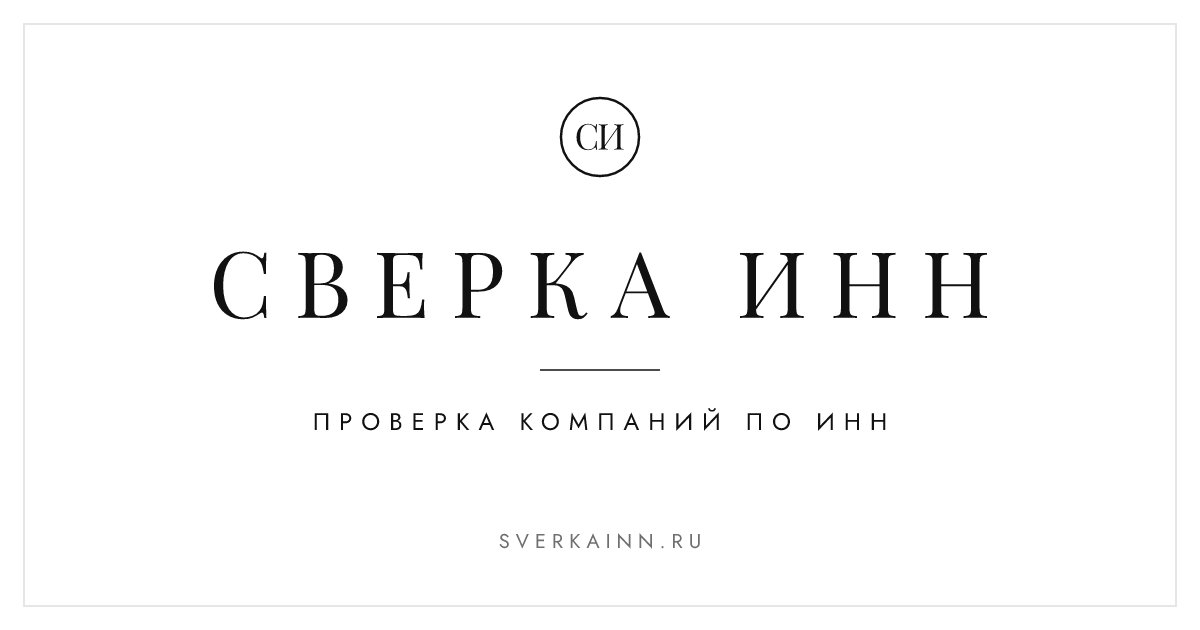
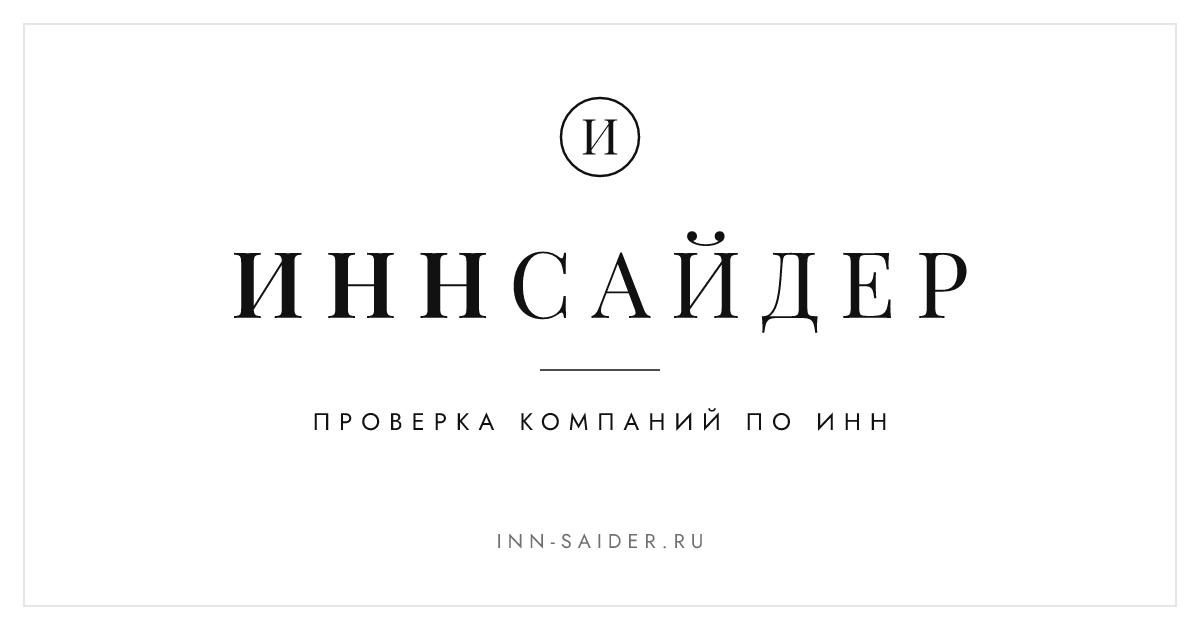
Название ИННсайдер, адрес inn-saider.ru; иконка «И»; sverkainn.ru — редирект

diff --git a/public/org.js b/public/org.js
@@ -1,4 +1,4 @@
-/* СверкаИНН: проверка организации по ИНН.
+/* ИННсайдер: проверка организации по ИНН.
    Данные берём из открытых реестров через DaData (метод «Найти по ИНН»), памятку строим по простым правилам.
    Если у страницы задан data-api (наш сервер, см. server/index.mjs), запросы идут через него: ключи не видны в браузере,
    а после данных реестра сервер присылает ИИ-разбор простым языком. Без data-api — старый режим, прямо в DaData. */
@@ -228,7 +228,7 @@
     return out;
   }
 
-  /* ---------- Индекс надёжности СверкаИНН: 0–100 по открытым данным ----------
+  /* ---------- Индекс надёжности ИННсайдер: 0–100 по открытым данным ----------
      Это мнение, основанное на фактах, а не утверждение о компании. Каждая поправка видна пользователю,
      методика опубликована на странице /indeks/ (строится из INDEX_RULES при сборке сайта).
      Вход: x = { status, ageYears, invalid, disqualified, fns: {debt, taxes, staff, last, prev},
@@ -254,7 +254,7 @@
     false_info: -15, address_false_info: -15, managers_false_info: -15, owner_false_info: -10, disqualified_managers: -20, disqualified_owners: -10, disqualified_individual: -20,
     unscrupulous_supplier44: -15, unscrupulous_supplier223: -15, fssp_debt: -15, has_bankruptcy_messages: -15,
     tax_offences: -5, has_fines_debts: -5, owners_offshore: -5, in_sanctions_list: -10, foreigner_agent: -10 };
-  function sverkaIndex(x) {
+  function innIndex(x) {
     var f = [], score = 60, rub = function (n) { return Math.round(n).toLocaleString('ru-RU') + ' ₽'; };
     var add = function (pts, text) { if (pts) { f.push({ pts: pts, text: text }); score += pts; } };
     if (x.status === 'LIQUIDATED' || x.status === 'BANKRUPT') {
@@ -307,7 +307,7 @@
   }
 
   if (typeof module !== 'undefined' && module.exports) {
-    module.exports = { innValid: innValid, advise: advise, taxIdeas: taxIdeas, sverkaIndex: sverkaIndex, INDEX_RULES: INDEX_RULES };
+    module.exports = { innValid: innValid, advise: advise, taxIdeas: taxIdeas, innIndex: innIndex, INDEX_RULES: INDEX_RULES };
     return;
   }
 
@@ -438,13 +438,13 @@
   function updateIndex() {
     var box = document.getElementById('idx-box');
     if (!box || !IDX) return;
-    var r = sverkaIndex(indexInput());
+    var r = innIndex(indexInput());
     box.textContent = '';
     box.className = 'idx idx-' + r.cls;
     var num = el('div', 'idx-num'); num.appendChild(el('b', null, String(r.score))); num.appendChild(el('span', null, '/100'));
     box.appendChild(num);
     var t = el('div', 'idx-text');
-    t.appendChild(el('div', 'idx-t', 'Индекс надёжности СверкаИНН: ' + r.level));
+    t.appendChild(el('div', 'idx-t', 'Индекс надёжности ИННсайдер: ' + r.level));
     var note = el('div', 'note-sm', (r.partial ? 'Предварительная оценка: ' + (!IDX.fns ? 'данные ФНС ещё загружаются. ' : !IDX.courts ? 'суды не загружены — откройте их ниже, и оценка уточнится. ' : 'часть данных недоступна. ') : '') + 'Это мнение по открытым данным, а не гарантия. ');
     var how = el('a', null, 'Как считаем'); how.href = '/indeks/'; note.appendChild(how);
     t.appendChild(note);
@@ -868,7 +868,7 @@
         if (k.limited) { b.disabled = false; msgc.textContent = 'Сегодня лимит запросов к судам исчерпан. Попробуйте завтра или посмотрите сами: kad.arbitr.ru и fssp.gov.ru.'; return; }
         if (k.paywall) {
           b.remove(); msgc.textContent = 'Бесплатно — суды по ' + k.free + ' новым компаниям в день, на сегодня они закончились. ';
-          var pa = el('a', null, 'СверкаИНН Про — без ограничений, от 290 ₽ в месяц'); pa.href = '/tarify/';
+          var pa = el('a', null, 'ИННсайдер Про — без ограничений, от 290 ₽ в месяц'); pa.href = '/tarify/';
           msgc.appendChild(pa); msgc.appendChild(document.createTextNode('. Или загляните завтра.'));
           return;
         }

diff --git a/public/account.js b/public/account.js
@@ -1,4 +1,4 @@
-/* СверкаИНН: страницы «Вход» и «Кабинет». Сервер аккаунтов — server/accounts.mjs (адрес в <html data-acct>).
+/* ИННсайдер: страницы «Вход» и «Кабинет». Сервер аккаунтов — server/accounts.mjs (адрес в <html data-acct>).
    Сессия — cookie на общем домене, поэтому все запросы идут с credentials: 'include'. */
 (function () {
   'use strict';
@@ -125,7 +125,7 @@
         // Подписка
         var b = r[4] || {};
         if (b.enabled) {
-          var ps = section('Подписка СверкаИНН Про');
+          var ps = section('Подписка ИННсайдер Про');
           if (b.pro) {
             ps.appendChild(el('p', null, 'Действует до ' + dateRu(b.paid_until) + (b.autorenew ? ', затем продлится автоматически.' : '.')));
             if (b.autorenew) ps.appendChild(smallBtn('Отключить автопродление', function () {
@@ -235,7 +235,7 @@
       var tries = 0;
       (function check() {
         api('POST', '/api/billing/check', {}).then(function (j) {
-          if (j.pro && j.payment === 'succeeded') { note.textContent = 'Оплата прошла. Подписка СверкаИНН Про действует до ' + dateRu(j.paid_until) + '.'; render(); history.replaceState(null, '', '/kabinet/'); }
+          if (j.pro && j.payment === 'succeeded') { note.textContent = 'Оплата прошла. Подписка ИННсайдер Про действует до ' + dateRu(j.paid_until) + '.'; render(); history.replaceState(null, '', '/kabinet/'); }
           else if (j.payment === 'canceled') note.textContent = 'Оплата не прошла. Попробуйте ещё раз на странице тарифов.';
           else if (++tries < 10) setTimeout(check, 3000);
           else note.textContent = 'Платёж ещё обрабатывается. Обновите страницу через пару минут.';

diff --git a/public/style.css b/public/style.css
@@ -1,4 +1,4 @@
-/* СверкаИНН — «кутюр»: монохром, много воздуха, тонкие линии, антиква Playfair Display в заголовках и гротеск Jost в тексте.
+/* ИННсайдер — «кутюр»: монохром, много воздуха, тонкие линии, антиква Playfair Display в заголовках и гротеск Jost в тексте.
    Шрифты (SIL OFL, см. fonts/OFL-*.txt) раздаём сами: без запросов к Google и быстрее первая отрисовка */
 @font-face{font-family:"Jost";font-style:normal;font-weight:300 500;font-display:swap;src:url(fonts/jost-cyrillic.woff2) format("woff2");unicode-range:U+0301, U+0400-045F, U+0490-0491, U+04B0-04B1, U+2116}
 @font-face{font-family:"Jost";font-style:normal;font-weight:300 500;font-display:swap;src:url(fonts/jost-latin.woff2) format("woff2");unicode-range:U+0000-00FF, U+0131, U+0152-0153, U+02BB-02BC, U+02C6, U+02DA, U+02DC, U+0304, U+0308, U+0329, U+2000-206F, U+20AC, U+2122, U+2191, U+2193, U+2212, U+2215, U+FEFF, U+FFFD}
@@ -40,7 +40,7 @@ img{max-width:100%}
 header{border-bottom:1px solid var(--line);background:var(--bar)}
 .bar{max-width:1200px;margin:0 auto;padding:30px 24px 0;display:grid;grid-template-columns:1fr auto 1fr;align-items:center;gap:0}
 .logo{grid-column:2;justify-self:center;font:400 30px/1 var(--font-display);letter-spacing:.24em;text-transform:uppercase;text-decoration:none;white-space:nowrap;padding-left:.24em}
-.logo b{font-weight:600;margin-left:.3em}
+.logo b{font-weight:600}
 .logo i{display:none}
 .bar-btns{grid-column:3;justify-self:end}
 nav{grid-column:1/-1;grid-row:2;display:flex;flex-wrap:wrap;justify-content:center;gap:8px 40px;padding:26px 0 20px}

diff --git a/public/person.js b/public/person.js
@@ -1,4 +1,4 @@
-/* СверкаИНН: проверка физлица — памятка со ссылками на бесплатные официальные реестры.
+/* ИННсайдер: проверка физлица — памятка со ссылками на бесплатные официальные реестры.
    Автоматического поиска по ФИО тут нет и быть не должно: закон не даёт "пробивать" человека по одной кнопке,
    как компанию по ИНН. Поэтому страница ничего никуда не отправляет — только подставляет введённое ФИО
    в текст памятки и даёт прямые ссылки на официальные бесплатные реестры, где искать нужно вручную. */

diff --git a/public/app.js b/public/app.js
@@ -1,4 +1,4 @@
-/* СверкаИНН: небольшой скрипт без зависимостей.
+/* ИННсайдер: небольшой скрипт без зависимостей.
    1) лента: окно 24 часа, время «N минут назад», фильтр по аудитории;
    2) страница новости: вкладки по аудиториям;
    3) калькуляторы ипотеки и вклада.

diff --git a/HANDOFF.md b/HANDOFF.md
@@ -140,3 +140,8 @@ innfact.ru, www и fin-check.shop — постоянный редирект на
 Дизайн «кутюр» (как у модных домов): монохром #111/#FFF, без скруглений и теней, волосяные линии; Playfair Display (заголовки, цифры, логотип прописными с разрядкой) и Jost (текст, подписи прописными с разрядкой) — свои woff2 в `public/fonts/` (OFL). Иконка — монограмма «СИ» в кольце (`Claude outputs/logo-sverkainn/icon.js`). Картинки компаний (`server/og-image.mjs`) — тоже монохром, но шрифтом PT Serif с сервера.
 
 **Рекламы на сайте нет и не будет** (решение владельца, 27.09.2026): ни баннеров, ни РСЯ, ни партнёрских ссылок — это обещание «Без рекламы» на главной. Материалы с `affiliate` сборка не показывает.
+
+## 12. Название «ИННсайдер», адрес inn-saider.ru (27.09.2026)
+Вместо «СверкаИНН» выбрали «ИННсайдер» (inn-saider.ru). sverkainn.ru (уже куплен) — редирект, как innfact.ru и fin-check.shop.
+Иконка — «И» в кольце (`Claude outputs/logo-innsaider/icon.js`). Функция индекса — `innIndex`.
+Важно для текстов: «инсайдер» — только образ; сайт работает исключительно с открытыми данными, никакой «закрытой»/инсайдерской информации не обещаем (224-ФЗ, ст. 185.6 УК).

diff --git a/deploy/README.md b/deploy/README.md
@@ -1,4 +1,4 @@
-# Запуск сервера СверкаИНН с аккаунтами на Timeweb
+# Запуск сервера ИННсайдер с аккаунтами на Timeweb
 
 Сервер проверки организаций, экспресс-разбора и аккаунтов. Данные пользователей по 152-ФЗ
 хранятся только здесь, на сервере в России. После переезда сервер на Render можно отключить.
